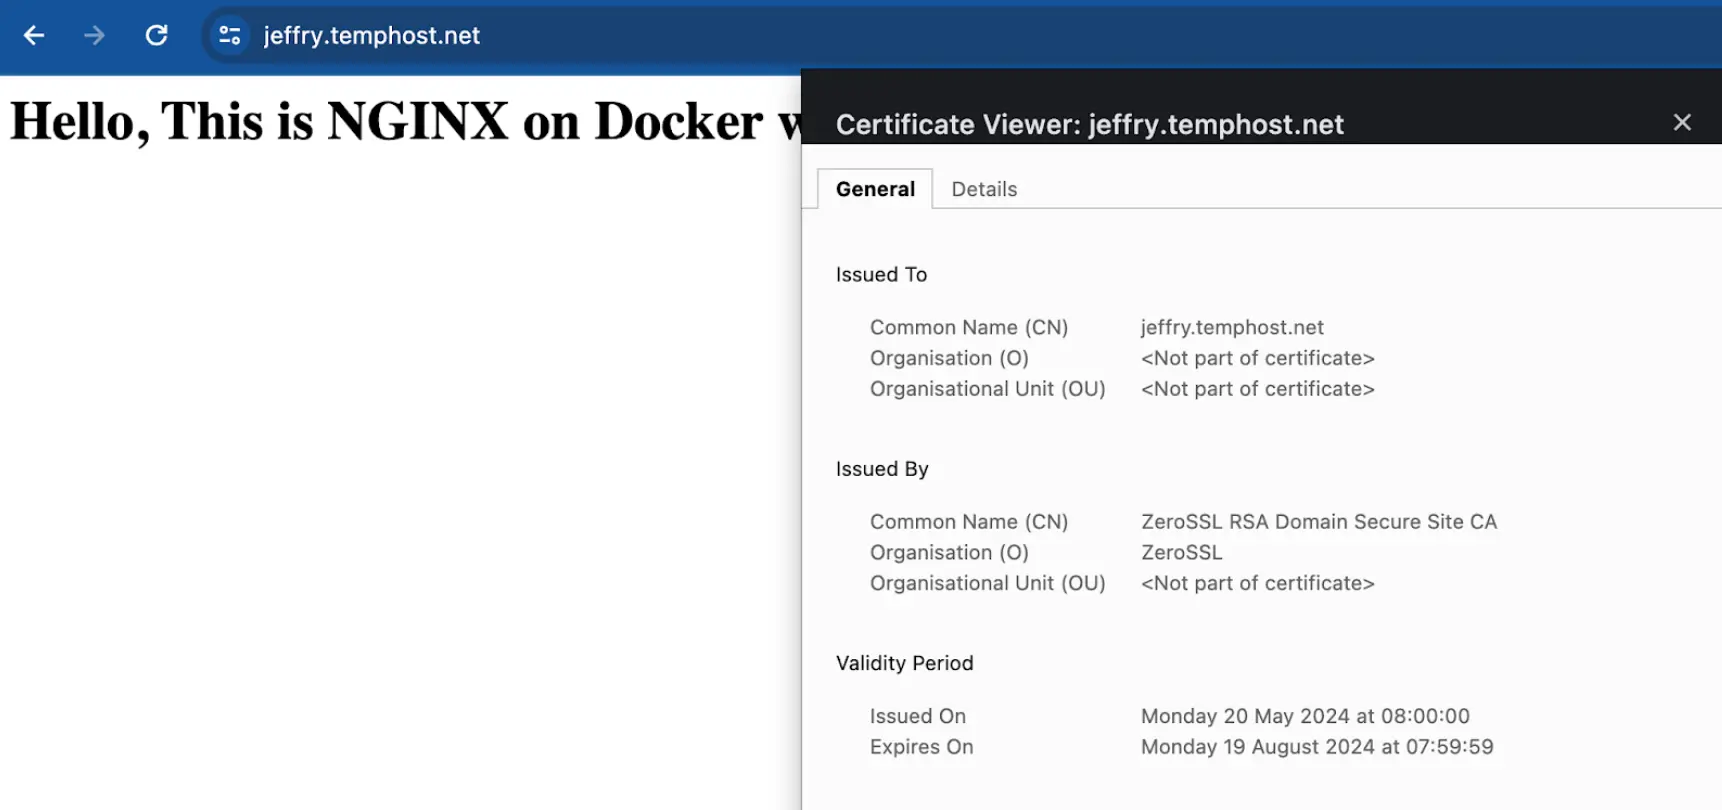
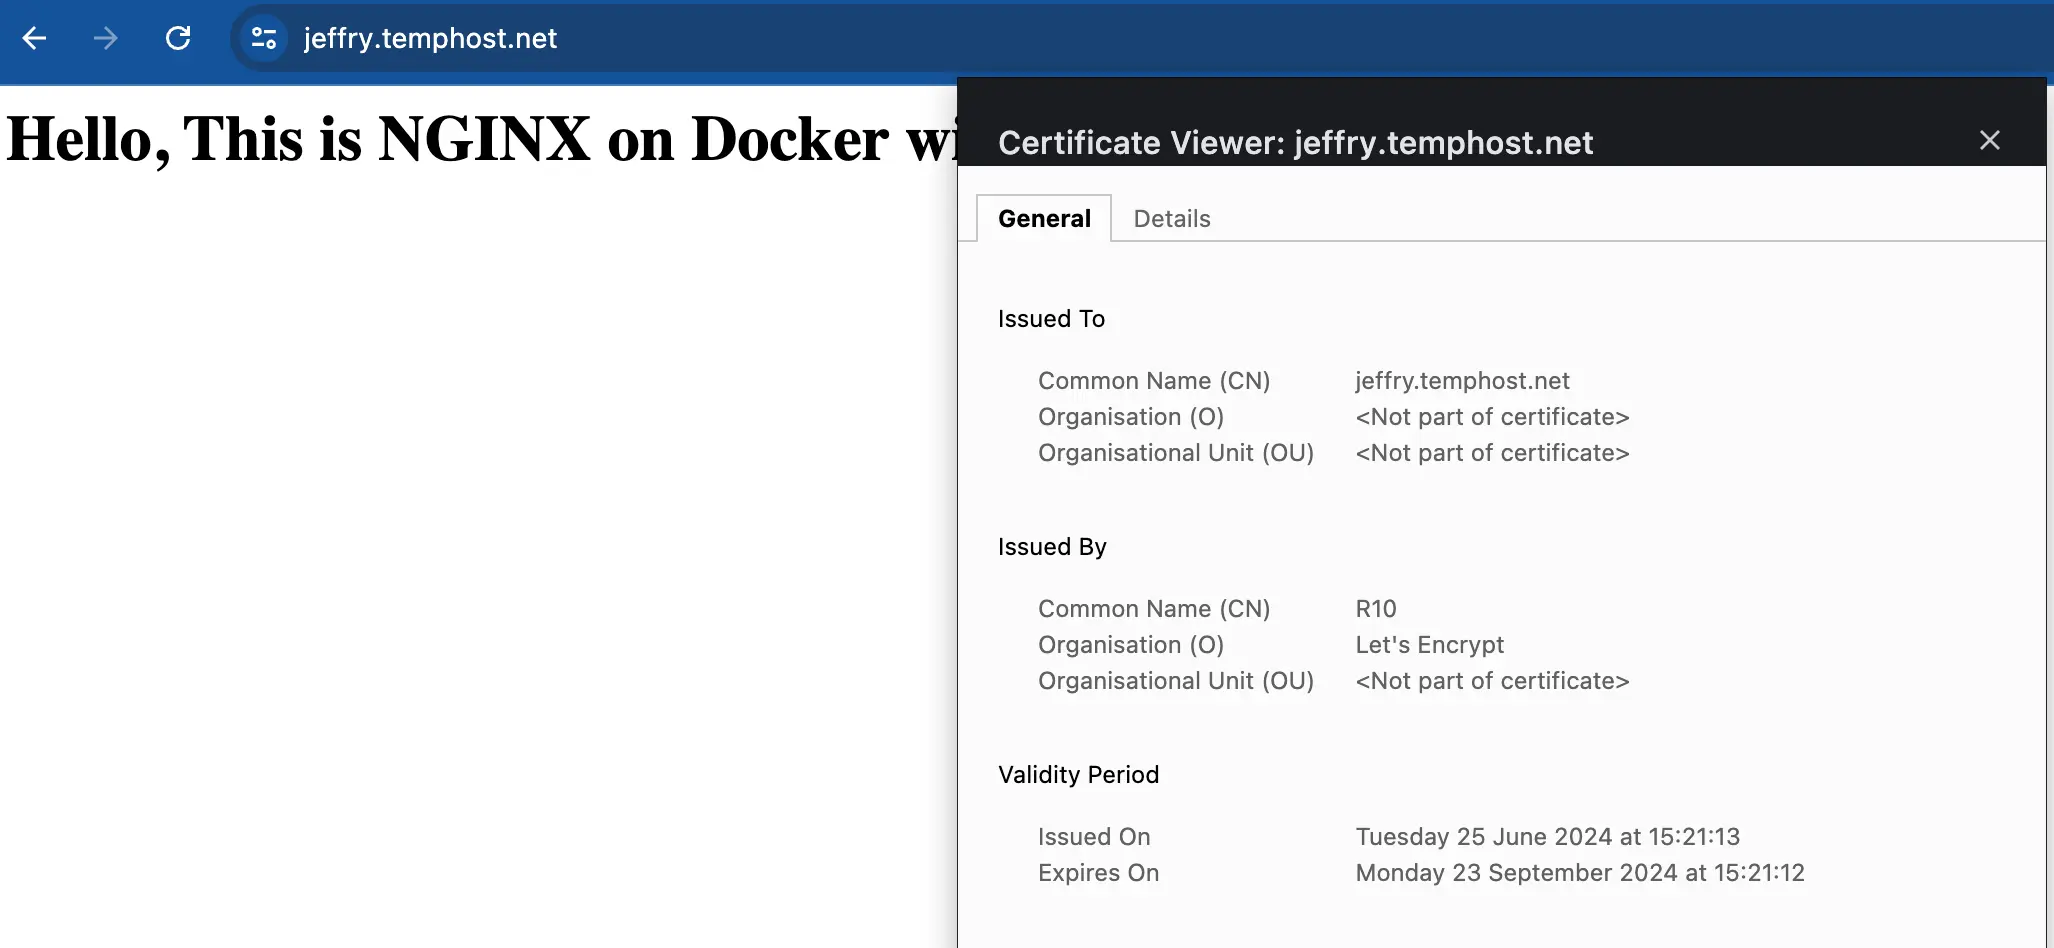
fix bug and add new conclusion

diff --git a/2024/06/docker-nginx-acme.md b/2024/06/docker-nginx-acme.md
@@ -42,7 +42,13 @@ curl https://get.acme.sh | sh -s email=jeffry@email.com
 ```
 Logout and login again to enable the acme.sh alias for the user. If acme.sh is not working, it's probably because you missed this step. If the alias is not enabled, the acme.sh script is not defined.
 
-### 3. Issue the certificate
+### 3. Set the CA
+Set Let's Encrypt as the default Certificate Authority
+```plain
+acme.sh --set-default-ca --server letsencrypt
+```
+
+### 4. Issue the certificate
 Now we'll proceed with issuing the certificate, a step that involves domain validation. Upon successful validation, the certificate will be issued. The "-d" flag specifies the domain, while "-w" designates the web root directory. This directory will be mounted as Nginx's web root in Docker, where acme.sh will write the validation file. Replace `jeffry.temphost.net` with your domain and `/home/jeffry/nginx-docker-acme/nginx/html` with your web root directory. Note that `/home/jeffry` is the directory where the code was downloaded, making it the working directory. Be sure to update it to reflect your own working directory.
 ```plain
 acme.sh --issue -d jeffry.temphost.net -w /home/jeffry/nginx-docker-acme/nginx/html  --keylength 4096
@@ -55,16 +61,47 @@ CONTAINER ID   IMAGE     COMMAND                  CREATED          STATUS       
 754c055d5b5e   nginx     "/docker-entrypoint...."   16 minutes ago   Up 16 minutes   0.0.0.0:80->80/tcp, :::80->80/tcp   nginx-docker-acme-web-1
 ```
 
-### 4. Install the certificate
+### 5. Install the certificate
 Uncomment the port 443 and SSL lines in nginx.conf and docker-compose.yaml. This will enable port 443 for Nginx and will make Docker exposing it to the host after we restart it through Docker Compose later. 
 
+**docker-compose.yaml**
+```plain
+services:
+  web:
+    image: nginx
+    ports:
+      - "80:80"
+      - "443:443"
+    volumes:
+      - ./nginx/nginx.conf:/etc/nginx/conf.d/default.conf
+      - ./nginx/html:/usr/share/nginx/html
+      - ./nginx/ssl:/etc/nginx/ssl
+```
+
+**nginx/nginx.conf**
+```plain
+server {
+    listen 80;
+    listen 443 ssl;
+
+    server_name localhost;
+
+    ssl_certificate /etc/nginx/ssl/cert.pem;
+    ssl_certificate_key /etc/nginx/ssl/key.pem;
+
+    location / {
+        root /usr/share/nginx/html;
+        index index.html;
+    }
+}
+```
 Create the ssl directory for Nginx and install the certificates there. This directory will be mounted on Nginx in Docker. Use the container name obtained from the previous steps as the value for  --reloadcmd switch. This is crucial because it will be used to restart Nginx for  future certificates update.
 ```plain
 mkdir /home/jeffry/nginx-docker-acme/nginx/ssl
 acme.sh --install-cert -d jeffry.temphost.net  --key-file       /home/jeffry/nginx-docker-acme/nginx/ssl/key.pem   --fullchain-file /home/jeffry/nginx-docker-acme/nginx/ssl/cert.pem --reloadcmd "docker exec nginx-docker-acme-web-1 nginx -s reload"
 ```
 
-### 5. Restart the Nginx container
+### 6. Restart the Nginx container
 Refresh the Nginx container by stopping and starting it from Docker Compose. You should be able to access the nginx through HTTPS with the Let’s Encrypt certificates.
 ```plain
 docker compose down
@@ -72,14 +109,13 @@ docker compose up -d
 ```
 ![A browser showing Let's Encrypt cert](/blog/2024/06/docker-nginx-acme/browser.webp)
 
-### 6. Certificate Renewal Mechanism
-The certificate will be automatically renewed by the cron job installed by acme.sh. You can verify the cron job by running the following command `crontab -l` 
+### 7. Certificate Renewal Mechanism
+The certificate will be automatically renewed by the cron job installed by acme.sh. This ensures that the renewal process runs regularly and without manual intervention. You can verify the cron job by running the following command `crontab -l` 
 ```plain
 [jeffry@docker ~]$ crontab -l
 13 7 * * * "/home/jeffry/.acme.sh"/acme.sh --cron --home "/home/jeffry/.acme.sh" > /dev/null
 ```
-This ensures that the renewal process runs regularly and without manual intervention.
 
-Thank you for following this tutorial. Have a great day!
+Setting up Let's Encrypt SSL certificates for Nginx in a Docker environment using acme.sh is an easy process that enhances the security of your web applications. By leveraging acme.sh, you automate the certificate issuance and renewal process, ensuring your sites remain secure without manual intervention. Following the steps outlined in this tutorial, you now have a robust setup where Nginx serves your applications over HTTPS, backed by trusted SSL certificates from Let's Encrypt. Thank you for following this tutorial. Have a great day!
 
 
